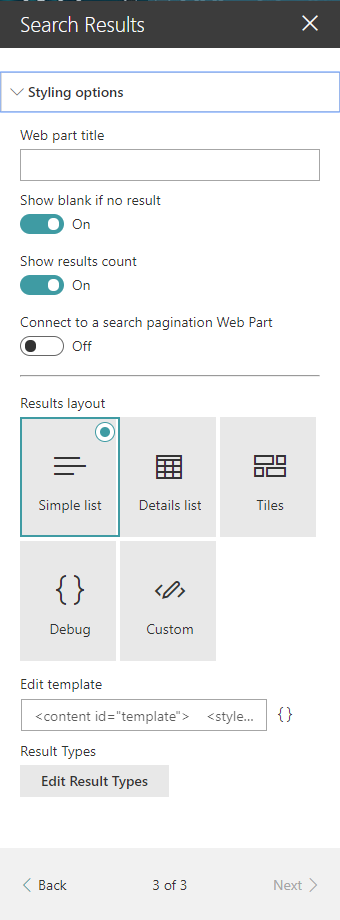
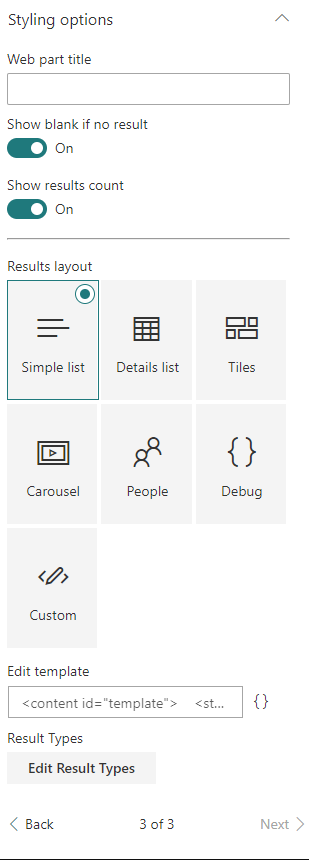
- Updated the documentation with new paging options - Removed references to the search pagination and search navigation Web Parts.

diff --git a/docs/search-parts/search-results.md b/docs/search-parts/search-results.md
@@ -24,16 +24,30 @@ Enable Query Rules | Enable the query rules if applies. Turn this options  'on' 
 Include OneDrive results | Include OneDrive results if applicable. Turn this option 'on' to make users' personal OneDrive results available to custom renderers. Read more [here](https://docs.microsoft.com/en-us/sharepoint/support/search/private-onedrive-results-not-included).
 Selected properties | The search managed properties to retrieve. You can select them from a predefined list or add them as free text if not listed. Then, these properties are available in your Handlebars template with the syntax (`item.property_name` or `property_name` inside the `{{#each}}` loop).
 Refinement filters | The default refinement filters to apply to the query. Unlike URL `filters` params, these won't select the default values in the Search Filters WP if connected.
-Number of items to retrieve per page | Quite explicit. The paging behavior is done directly by the search API (See the *SearchDataProvider.ts* file), not by the code on post-render.
+Enable taxonomy values localization for refiners and results | If set, the Web Part will try to translate the taxonomy term IDs to their corresponding label according to the curent UI language. Refer to the [Taxonomy values dynamic translation](#) section of this page.
+Language of search request | The language to use for the search request. By default the search request will be made using the current UI language.
+Synonyms | Ability to define synonyms for the search querytext. Synonyms can be configured in a two-ways mode.
+
+#### Paging settings
+
+![Paging settings](../images/paging_settings.png)
+
+Setting | Description
+-------|----
+Show paging | Displays or not the paging control at the bottom.
+Number of items per page | Corresponds to the number of search results to retrieve per page.
+Number of pages to display in range | The number of page digits to display in the range. 
+Hide navigation buttons | If set, hide the previous and next page buttons.
+Hide first/last navigation buttons | If set, hide the last and first navigation buttons.
+Hide navigation buttons | If set, hide the previous, next, first and last if disabled (i.e. no page available).
 
 #### Styling Options
 
 Setting | Description
 -------|----
 Web Part Title | Shows a title for this Web Part. Set blank if you don't want a title.
-Show blank if no result | Shows nothing if there is no result
-Show result count | Shows the result count and entered keywords
-Connect to a search pagination Web Part	 | If enable, select the search pagination Web Part to use on the current page to get selected page. It is a 2 ways connection so don't forget to connect the targeted search pagination to the search results Web Part as well.
+Show blank if no result | Shows nothing if there is no result. If a WP title is set, this will be hidden as well.
+Show result count | Shows the result count and entered keywords.
 Result Layouts options | Choose the template to use to display search results. Some layouts are defined by default but you can create your own either by clicking on the **"Custom"** tile, or **"Edit template"** from an existing chosen template. In custom mode, you can set an external template. It has to be in the same SharePoint tenant. Behind the scenes, the Office UI React controls are used. Custom code templates will also automatically be displayed here upon registration. See the [templating documentation](./templating.md) for more information about templating.
 Result types | Allows you to set a custom template at item level according to a specific condition (ex: FileType equals 'pdf').
 

diff --git a/docs/search-parts/getting-started.md b/docs/search-parts/getting-started.md
@@ -15,8 +15,6 @@ Component | Description |
 Search Box Web Part | Allows users to enter free text/KQL search queries connected to a search results Web Part.
 Search Results Web Part | Performs static or dynamic search query with customizable parameters sorting and templating.
 Search Refiners | Allows users to configure refiners for a search results Web Part.
-Search Pagination | Allows users to configure pagination for a search results Web Part.
-Search Navigation | Allows users to configure navigation for a search results Web Part.
 Search Verticals | Allows users to search in predefined scopes.
 
 ## Minimal Path to Awesome ##

diff --git a/docs/index.md b/docs/index.md
@@ -21,7 +21,6 @@ This solution allows you to build user friendly SharePoint search experiences us
 - Customizable refiners supporting multilingual values for taxonomy based filters.
 - Sortable results (unique field).
 - Refiners Web Part.
-- Pagination Web Part.
 - SharePoint best bets support.
 - Search query enhancement with NLP tools (like Microsoft LUIS).
 - Extensibility model allowing to write your own components.
